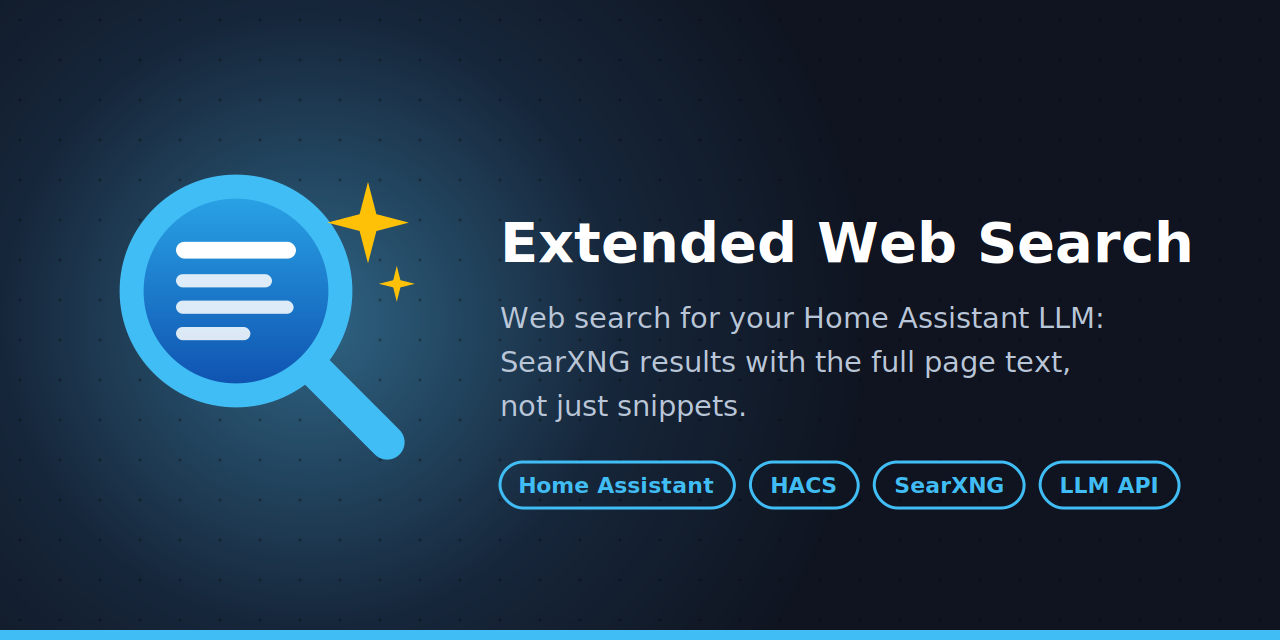
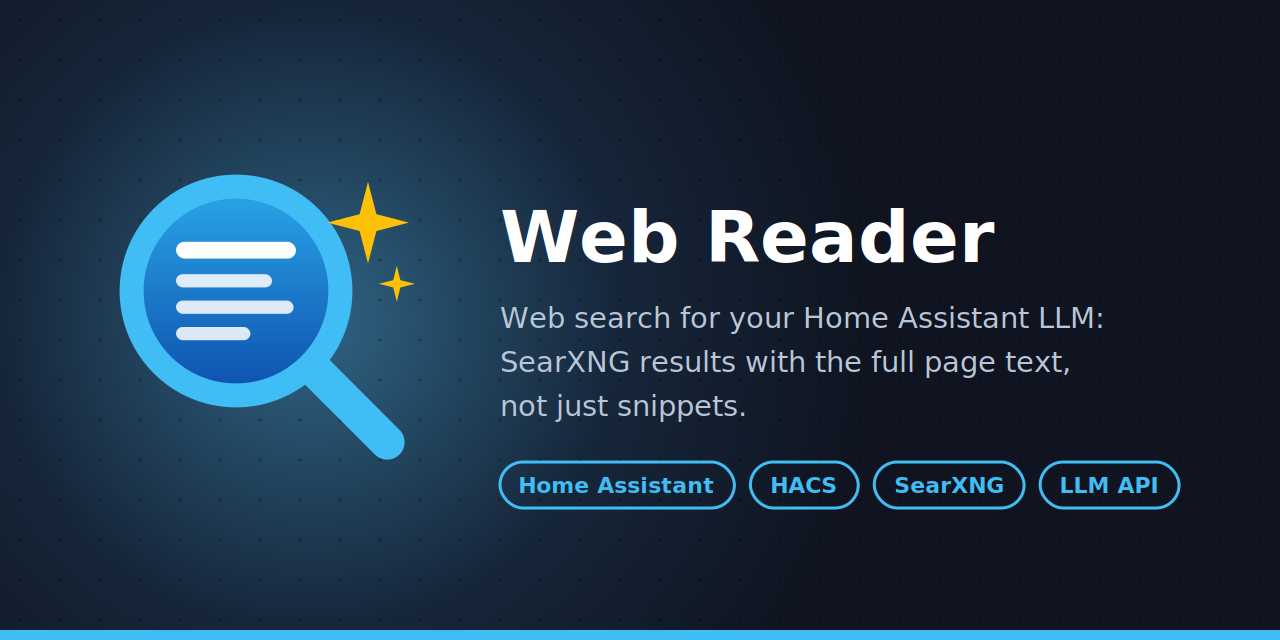
refactor!: rename the integration to Web Reader (#3)
* refactor!: rename the integration to Web Reader

The repository is now Xiphiass/hass-web-reader, following the hass- prefix
used for the other HACS integrations. The domain changes from
extended_web_search to web_reader (folder, LLM API id, logger), and the
display name from Extended Web Search to Web Reader, including the README,
HACS links and the social preview banner.

BREAKING CHANGE: existing installs must remove the old integration and set
up Web Reader again. No release was published under the old name.

* style: reformat after the rename

---------

Changed region(s): [[0.375, 0.3125, 0.9375, 0.4375]]

diff --git a/custom_components/web_reader/__init__.py b/custom_components/web_reader/__init__.py
@@ -1,4 +1,4 @@
-"""Extended Web Search integration for Home Assistant."""
+"""Web Reader integration for Home Assistant."""
 
 from __future__ import annotations
 
@@ -10,7 +10,7 @@ from homeassistant.core import HomeAssistant
 from homeassistant.helpers import llm
 
 from .const import DOMAIN
-from .llm_api import ExtendedWebSearchAPI
+from .llm_api import WebReaderAPI
 from .web_content import create_fetch_session
 
 __all__ = ["DOMAIN"]
@@ -23,26 +23,22 @@ class RuntimeData:
     fetch_session: aiohttp.ClientSession
 
 
-type ExtendedWebSearchConfigEntry = ConfigEntry[RuntimeData]
+type WebReaderConfigEntry = ConfigEntry[RuntimeData]
 
 
-async def async_setup_entry(
-    hass: HomeAssistant, entry: ExtendedWebSearchConfigEntry
-) -> bool:
-    """Set up Extended Web Search from a config entry."""
+async def async_setup_entry(hass: HomeAssistant, entry: WebReaderConfigEntry) -> bool:
+    """Set up Web Reader from a config entry."""
     fetch_session = create_fetch_session()
     entry.runtime_data = RuntimeData(fetch_session=fetch_session)
     entry.async_on_unload(fetch_session.close)
 
     config = {**entry.data, **entry.options}
     entry.async_on_unload(
-        llm.async_register_api(hass, ExtendedWebSearchAPI(hass, config, fetch_session))
+        llm.async_register_api(hass, WebReaderAPI(hass, config, fetch_session))
     )
     return True
 
 
-async def async_unload_entry(
-    hass: HomeAssistant, entry: ExtendedWebSearchConfigEntry
-) -> bool:
+async def async_unload_entry(hass: HomeAssistant, entry: WebReaderConfigEntry) -> bool:
     """Unload a config entry."""
     return True

diff --git a/custom_components/web_reader/config_flow.py b/custom_components/web_reader/config_flow.py
@@ -1,4 +1,4 @@
-"""Config flow for the Extended Web Search integration."""
+"""Config flow for the Web Reader integration."""
 
 from __future__ import annotations
 
@@ -109,8 +109,8 @@ async def validate_input(
     return data, {}
 
 
-class ExtendedWebSearchConfigFlow(ConfigFlow, domain=DOMAIN):
-    """Handle a config flow for Extended Web Search."""
+class WebReaderConfigFlow(ConfigFlow, domain=DOMAIN):
+    """Handle a config flow for Web Reader."""
 
     VERSION = 1
 
@@ -137,13 +137,13 @@ class ExtendedWebSearchConfigFlow(ConfigFlow, domain=DOMAIN):
     @callback
     def async_get_options_flow(
         config_entry: ConfigEntry,
-    ) -> ExtendedWebSearchOptionsFlow:
+    ) -> WebReaderOptionsFlow:
         """Return the options flow."""
-        return ExtendedWebSearchOptionsFlow()
+        return WebReaderOptionsFlow()
 
 
-class ExtendedWebSearchOptionsFlow(OptionsFlowWithReload):
-    """Handle options flow for Extended Web Search."""
+class WebReaderOptionsFlow(OptionsFlowWithReload):
+    """Handle options flow for Web Reader."""
 
     async def async_step_init(
         self, user_input: dict[str, Any] | None = None

diff --git a/tests/test_tools.py b/tests/test_tools.py
@@ -7,9 +7,9 @@ from unittest.mock import AsyncMock, MagicMock, patch
 from homeassistant.core import HomeAssistant
 from homeassistant.helpers import llm
 
-from custom_components.extended_web_search import tools
-from custom_components.extended_web_search.const import CONF_REQUEST_TIMEOUT
-from custom_components.extended_web_search.tools import (
+from custom_components.web_reader import tools
+from custom_components.web_reader.const import CONF_REQUEST_TIMEOUT
+from custom_components.web_reader.tools import (
     OpenUrlTool,
     SearchWebTool,
     allocate_budget,

diff --git a/custom_components/web_reader/tools.py b/custom_components/web_reader/tools.py
@@ -1,4 +1,4 @@
-"""LLM tools for Extended Web Search."""
+"""LLM tools for Web Reader."""
 
 from __future__ import annotations
 
@@ -141,7 +141,7 @@ class SearchWebTool(llm.Tool):
         """Perform web search and fetch page content."""
         args = tool_input.tool_args
         query = args["query"]
-        _LOGGER.debug("Extended web search for: %s", query)
+        _LOGGER.debug("Web search for: %s", query)
 
         num_results = int(self.config[CONF_NUM_RESULTS])
         max_content_length = int(self.config[CONF_MAX_CONTENT_LENGTH])

diff --git a/custom_components/web_reader/llm_api.py b/custom_components/web_reader/llm_api.py
@@ -1,4 +1,4 @@
-"""LLM API registration for Extended Web Search."""
+"""LLM API registration for Web Reader."""
 
 from __future__ import annotations
 
@@ -24,8 +24,8 @@ API_PROMPT = (
 )
 
 
-class ExtendedWebSearchAPI(llm.API):
-    """LLM API that provides extended web search tools."""
+class WebReaderAPI(llm.API):
+    """LLM API that provides web search and page reading tools."""
 
     def __init__(
         self,

diff --git a/tests/test_web_content.py b/tests/test_web_content.py
@@ -6,8 +6,8 @@ import aiohttp
 import pytest
 from aiohttp import web
 
-from custom_components.extended_web_search import web_content
-from custom_components.extended_web_search.web_content import (
+from custom_components.web_reader import web_content
+from custom_components.web_reader.web_content import (
     DisallowedAddressError,
     PublicOnlyResolver,
     extract_text,

diff --git a/custom_components/web_reader/const.py b/custom_components/web_reader/const.py
@@ -1,8 +1,8 @@
-"""Constants for the Extended Web Search integration."""
+"""Constants for the Web Reader integration."""
 
-DOMAIN = "extended_web_search"
-ADDON_NAME = "Extended Web Search"
-API_NAME = "Extended Web Search"
+DOMAIN = "web_reader"
+ADDON_NAME = "Web Reader"
+API_NAME = "Web Reader"
 
 # Configuration keys
 CONF_SEARXNG_URL = "searxng_url"

diff --git a/tests/conftest.py b/tests/conftest.py
@@ -1,8 +1,8 @@
-"""Fixtures for Extended Web Search tests."""
+"""Fixtures for Web Reader tests."""
 
 import pytest
 
-from custom_components.extended_web_search.const import (
+from custom_components.web_reader.const import (
     CONF_MAX_CONTENT_LENGTH,
     CONF_NUM_RESULTS,
     CONF_REQUEST_TIMEOUT,

diff --git a/tests/test_config_flow.py b/tests/test_config_flow.py
@@ -11,7 +11,7 @@ from pytest_homeassistant_custom_component.test_util.aiohttp import (
     AiohttpClientMocker,
 )
 
-from custom_components.extended_web_search.const import (
+from custom_components.web_reader.const import (
     CONF_NUM_RESULTS,
     CONF_SEARXNG_URL,
     DOMAIN,

diff --git a/tests/__init__.py b/tests/__init__.py
@@ -1,1 +1,1 @@
-"""Tests for the Extended Web Search integration."""
+"""Tests for the Web Reader integration."""
